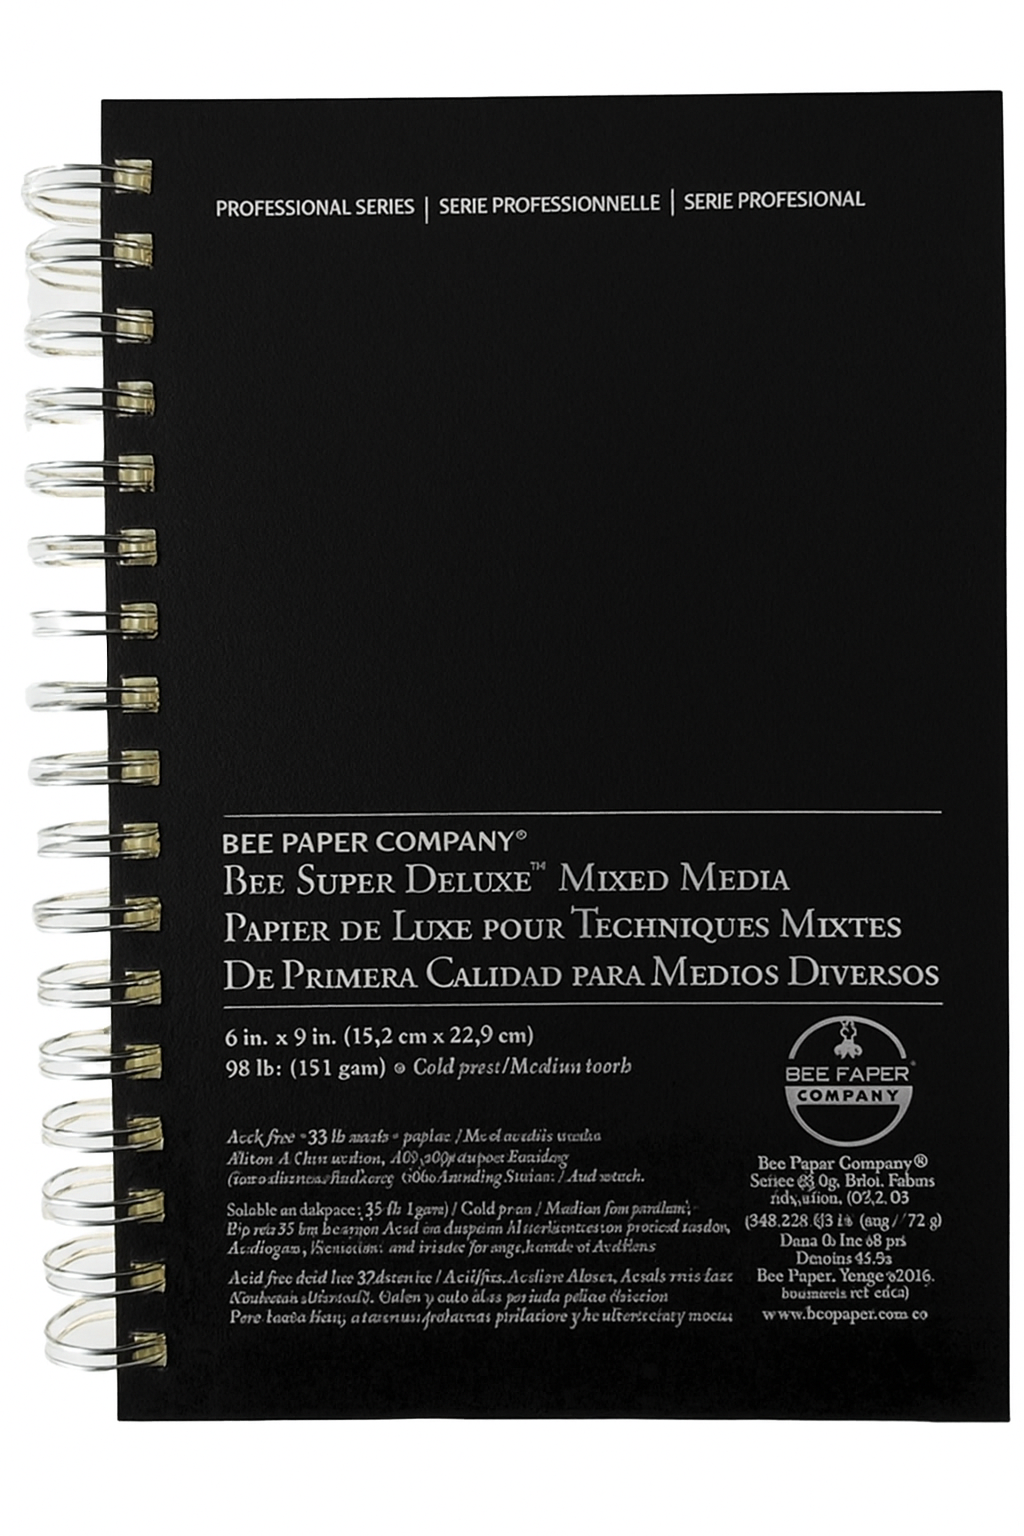
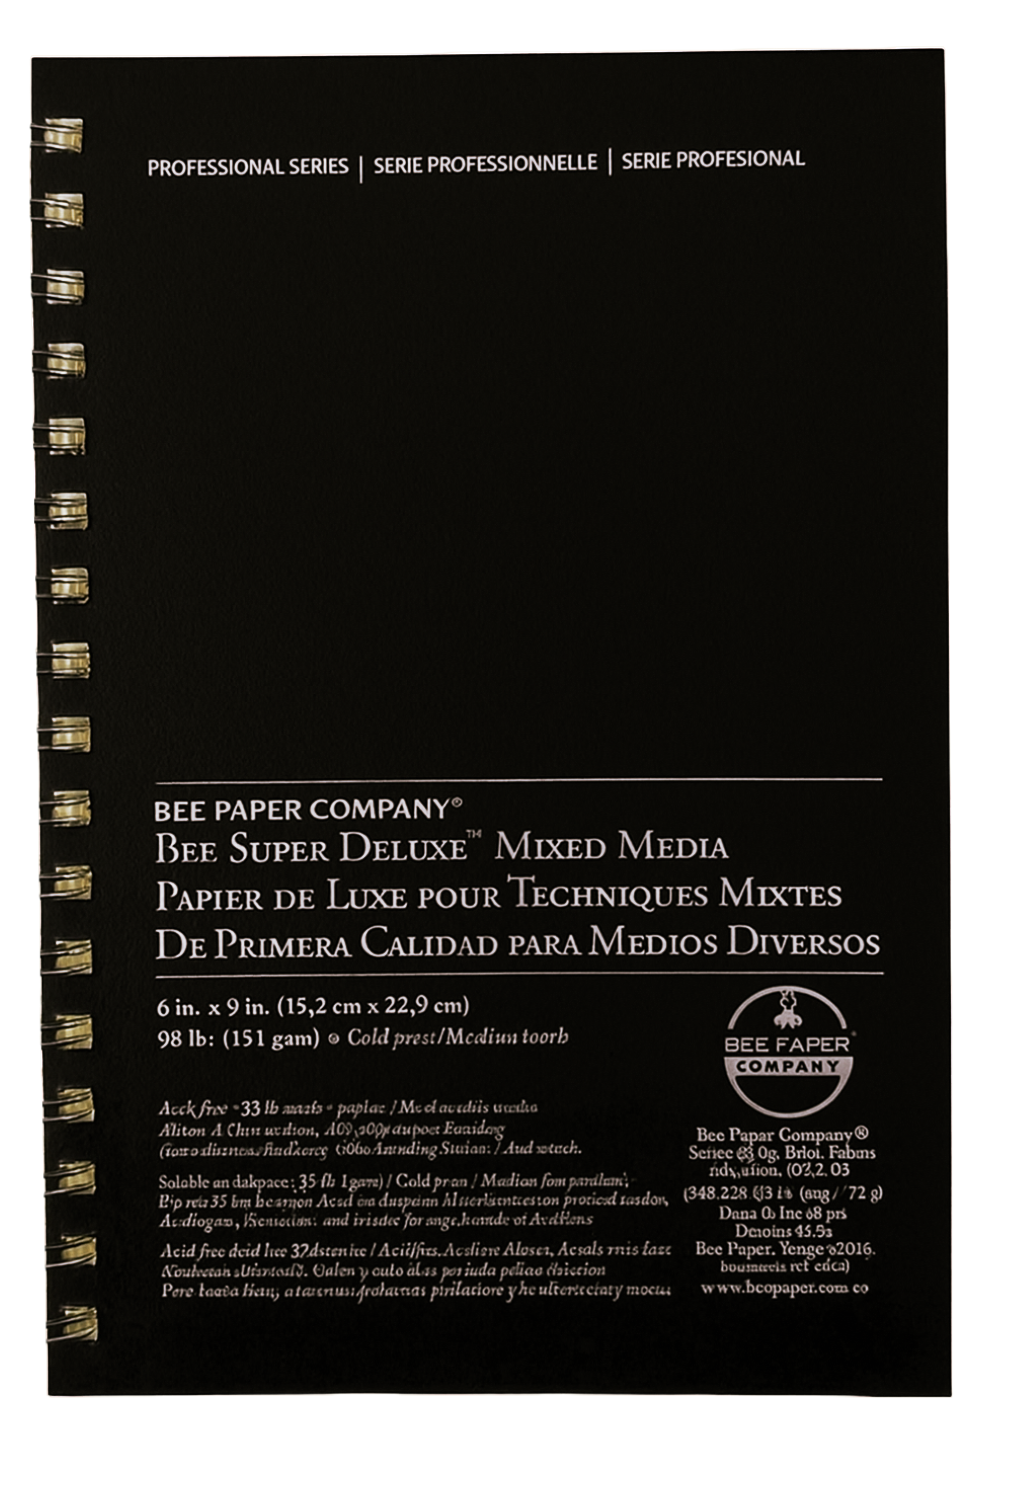
removed background from sketchbook image

Changed region(s): [[0.0, 0.0307, 1.0, 0.9507]]

diff --git a/css/Mstyle.css b/css/Mstyle.css
@@ -436,10 +436,10 @@ button[popovertarget="my-popover"] {
 
 .popup-api-response {
   display: flex;
-  font-size: clamp(0.95rem, 2vw, 1.8rem);
-  font-weight: 200;
+  font-size: clamp(0.95rem, 1vw, 1.5rem);
+  font-weight: 150;
   flex-shrink: 0;
-  height: 2vw;
+  height: 4vw;
   width: 100vw;
   background-color: white;
   padding: 10px;
